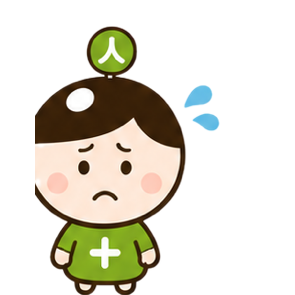
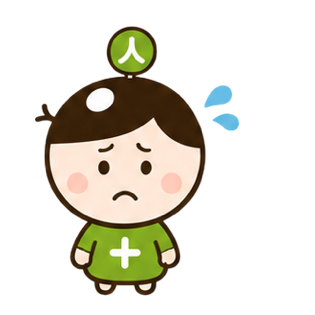
困り顔アイコンの左端切れを修正、進捗キャラを大きく遊び心のある配置に
beruru_komarigao.pngの元クロップが左に寄りすぎており、後れ毛と輪郭の
左側が欠けていた。切り出し範囲を左にずらして再生成（全ページで共有
する画像なので、既存のloading/empty表示にも自動で反映される）。

日次報告の「今月の貢献人数」カード（通常/ラフォーレ2種）は、
タイトル横の小さな24pxアイコンから、バーの右側に68pxで大きく
表示する構成に変更。ペース更新のたびにポップアニメーションが
再生されるようにした。

Changed region(s): [[0.0915, 0.061, 0.7627, 1.0]]

diff --git a/daily.html b/daily.html
@@ -69,7 +69,11 @@ textarea:focus{border-color:#1D9E75}
 .success-msg{display:none;background:#d4f4e8;color:#0F6E56;padding:10px 14px;border-radius:8px;margin-top:10px;font-size:14px;font-weight:600;text-align:center}
 .input-progress-card{background:#f0faf6;border:1px solid #d4f4e8;border-radius:10px;padding:12px;margin-top:10px}
 .input-progress-title{font-size:12px;color:#0F6E56;margin-bottom:8px;font-weight:500}
-.ip-mood-icon{width:24px;height:24px;vertical-align:middle;margin-left:6px}
+.ip-flex{display:flex;align-items:center;gap:12px}
+.ip-flex-main{flex:1;min-width:0}
+.ip-mood-icon{width:68px;height:68px;flex-shrink:0}
+.ip-mood-icon.pop{animation:ip-mood-pop 0.4s cubic-bezier(.34,1.56,.64,1)}
+@keyframes ip-mood-pop{0%{transform:scale(0.6);opacity:0}100%{transform:scale(1);opacity:1}}
 .input-progress-row{display:flex;justify-content:space-between;align-items:center;margin-bottom:6px}
 .input-progress-num{font-size:18px;font-weight:700;color:#0F6E56}
 .input-progress-goal{font-size:12px;color:#888}
@@ -371,20 +375,25 @@ textarea:focus{border-color:#1D9E75}
       <!-- 通常事業所 -->
       <div id="input-progress-area" style="display:none">
         <div class="input-progress-card">
-          <div class="input-progress-title">今月の貢献人数<img id="ip-mood-icon" class="ip-mood-icon" style="display:none"></div>
-          <div class="input-progress-row">
-            <span class="input-progress-num" id="ip-current">0</span>
-            <span class="input-progress-goal" id="ip-goal"></span>
-          </div>
-          <div style="position:relative">
-            <div class="input-progress-wrap">
-              <div class="input-progress-bar" id="ip-bar" style="width:0%"></div>
+          <div class="input-progress-title">今月の貢献人数</div>
+          <div class="ip-flex">
+            <div class="ip-flex-main">
+              <div class="input-progress-row">
+                <span class="input-progress-num" id="ip-current">0</span>
+                <span class="input-progress-goal" id="ip-goal"></span>
+              </div>
+              <div style="position:relative">
+                <div class="input-progress-wrap">
+                  <div class="input-progress-bar" id="ip-bar" style="width:0%"></div>
+                </div>
+                <div class="pace-line" id="ip-pace-line" style="display:none"></div>
+              </div>
+              <div style="display:flex;justify-content:space-between;align-items:center;margin-top:4px">
+                <div class="input-progress-pct" id="ip-pct" style="margin-top:0"></div>
+                <div id="ip-pace-text" style="font-size:11px"></div>
+              </div>
             </div>
-            <div class="pace-line" id="ip-pace-line" style="display:none"></div>
-          </div>
-          <div style="display:flex;justify-content:space-between;align-items:center;margin-top:4px">
-            <div class="input-progress-pct" id="ip-pct" style="margin-top:0"></div>
-            <div id="ip-pace-text" style="font-size:11px"></div>
+            <img id="ip-mood-icon" class="ip-mood-icon" style="display:none">
           </div>
         </div>
       </div>
@@ -411,37 +420,47 @@ textarea:focus{border-color:#1D9E75}
       <!-- ラフォーレ -->
       <div id="lafore-progress-area" style="display:none">
         <div class="input-progress-card">
-          <div class="input-progress-title">生活介護　今月の貢献人数<img id="lp-care-mood-icon" class="ip-mood-icon" style="display:none"></div>
-          <div class="input-progress-row">
-            <span class="input-progress-num" id="lp-care-current">0</span>
-            <span class="input-progress-goal" id="lp-care-goal"></span>
-          </div>
-          <div style="position:relative">
-            <div class="input-progress-wrap">
-              <div class="input-progress-bar" id="lp-care-bar" style="width:0%"></div>
+          <div class="input-progress-title">生活介護　今月の貢献人数</div>
+          <div class="ip-flex">
+            <div class="ip-flex-main">
+              <div class="input-progress-row">
+                <span class="input-progress-num" id="lp-care-current">0</span>
+                <span class="input-progress-goal" id="lp-care-goal"></span>
+              </div>
+              <div style="position:relative">
+                <div class="input-progress-wrap">
+                  <div class="input-progress-bar" id="lp-care-bar" style="width:0%"></div>
+                </div>
+                <div class="pace-line" id="lp-care-pace-line" style="display:none"></div>
+              </div>
+              <div style="display:flex;justify-content:space-between;align-items:center;margin-top:4px">
+                <div class="input-progress-pct" id="lp-care-pct" style="margin-top:0"></div>
+                <div id="lp-care-pace-text" style="font-size:11px"></div>
+              </div>
             </div>
-            <div class="pace-line" id="lp-care-pace-line" style="display:none"></div>
-          </div>
-          <div style="display:flex;justify-content:space-between;align-items:center;margin-top:4px">
-            <div class="input-progress-pct" id="lp-care-pct" style="margin-top:0"></div>
-            <div id="lp-care-pace-text" style="font-size:11px"></div>
+            <img id="lp-care-mood-icon" class="ip-mood-icon" style="display:none">
           </div>
         </div>
         <div class="input-progress-card" style="margin-top:8px">
-          <div class="input-progress-title">就労B型　今月の貢献人数<img id="lp-work-mood-icon" class="ip-mood-icon" style="display:none"></div>
-          <div class="input-progress-row">
-            <span class="input-progress-num" id="lp-work-current">0</span>
-            <span class="input-progress-goal" id="lp-work-goal"></span>
-          </div>
-          <div style="position:relative">
-            <div class="input-progress-wrap">
-              <div class="input-progress-bar" id="lp-work-bar" style="width:0%"></div>
+          <div class="input-progress-title">就労B型　今月の貢献人数</div>
+          <div class="ip-flex">
+            <div class="ip-flex-main">
+              <div class="input-progress-row">
+                <span class="input-progress-num" id="lp-work-current">0</span>
+                <span class="input-progress-goal" id="lp-work-goal"></span>
+              </div>
+              <div style="position:relative">
+                <div class="input-progress-wrap">
+                  <div class="input-progress-bar" id="lp-work-bar" style="width:0%"></div>
+                </div>
+                <div class="pace-line" id="lp-work-pace-line" style="display:none"></div>
+              </div>
+              <div style="display:flex;justify-content:space-between;align-items:center;margin-top:4px">
+                <div class="input-progress-pct" id="lp-work-pct" style="margin-top:0"></div>
+                <div id="lp-work-pace-text" style="font-size:11px"></div>
+              </div>
             </div>
-            <div class="pace-line" id="lp-work-pace-line" style="display:none"></div>
-          </div>
-          <div style="display:flex;justify-content:space-between;align-items:center;margin-top:4px">
-            <div class="input-progress-pct" id="lp-work-pct" style="margin-top:0"></div>
-            <div id="lp-work-pace-text" style="font-size:11px"></div>
+            <img id="lp-work-mood-icon" class="ip-mood-icon" style="display:none">
           </div>
         </div>
       </div>
@@ -1170,7 +1189,10 @@ function applyPaceDisplay(prefix, office, mt){
   const mood=document.getElementById(prefix+'mood-icon');
   if(mood){
     mood.src = diff>0 ? 'assets/beruru_kanryo.png' : diff===0 ? 'assets/beruru_nikoniko.png' : 'assets/beruru_komarigao.png';
-    mood.style.display='inline-block';
+    mood.style.display='block';
+    mood.classList.remove('pop');
+    void mood.offsetWidth; // reflow でアニメーションを再トリガー
+    mood.classList.add('pop');
   }
 }
 
